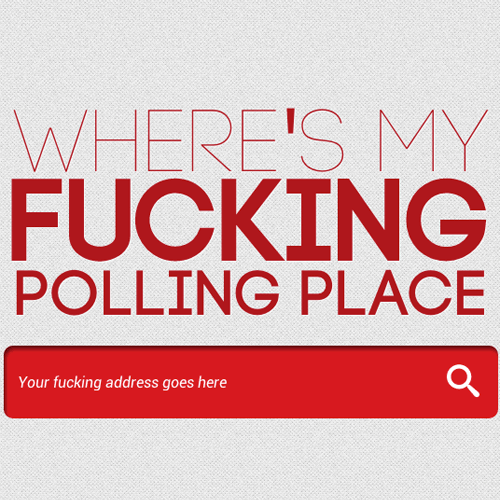
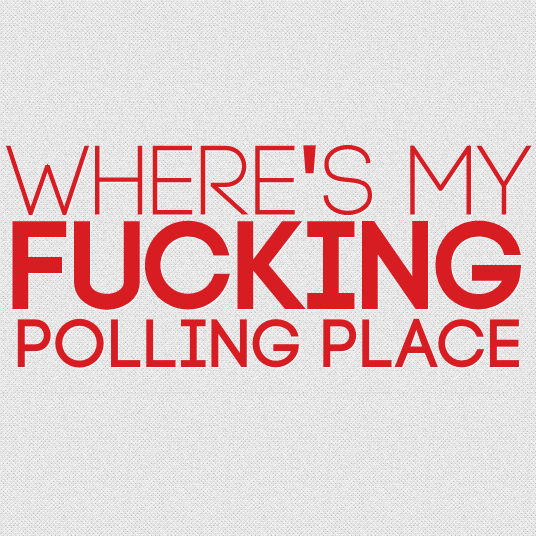
Adjusting social tags and default share image

diff --git a/yfpp/templates/yfpp/base.html b/yfpp/templates/yfpp/base.html
@@ -8,14 +8,14 @@
 <head>
 <meta charset="utf-8">
 <meta http-equiv="X-UA-Compatible" content="IE=edge,chrome=1">
-<title>yourfuckingpollingplace.com</title>
-<meta name="title" content="yourfuckingpollingplace.com">
-<meta property="og:title" content="YourFuckingPollingPlace.com">
+<title>Find Your Fucking Polling Place</title>
+<meta name="title" content="Where's Your Fucking Polling Place">
+<meta property="og:title" content="Where's Your Fucking Polling Place">
+<meta property="og:description" content="Get off Facebook, find your fucking polling place.">
 <meta name="description" content="A place you go to find your fucking polling place">
-<meta property="og:description" content="Get off Facebook, here's your fucking polling place.">
-<meta property="og:image" content="{% static "images/wmfpp.png" %}">
-<link rel="image_src" href="{% static "images/wmfpp.png" %}">
-<meta property="og:url" content="http://yourfuckingpollingplace.com/">
+<meta property="og:image" content="http://i.imgur.com/hFUhY.png">
+<link rel="image_src" href="http://i.imgur.com/hFUhY.png">
+<meta property="og:url" content="http://www.yourfuckingpollingplace.com/">
 <meta property="og:site_name" content="yourfuckingpollingplace.com">
 <meta property="og:locale" content="en_US">
 <meta property="og:type" content="website">
